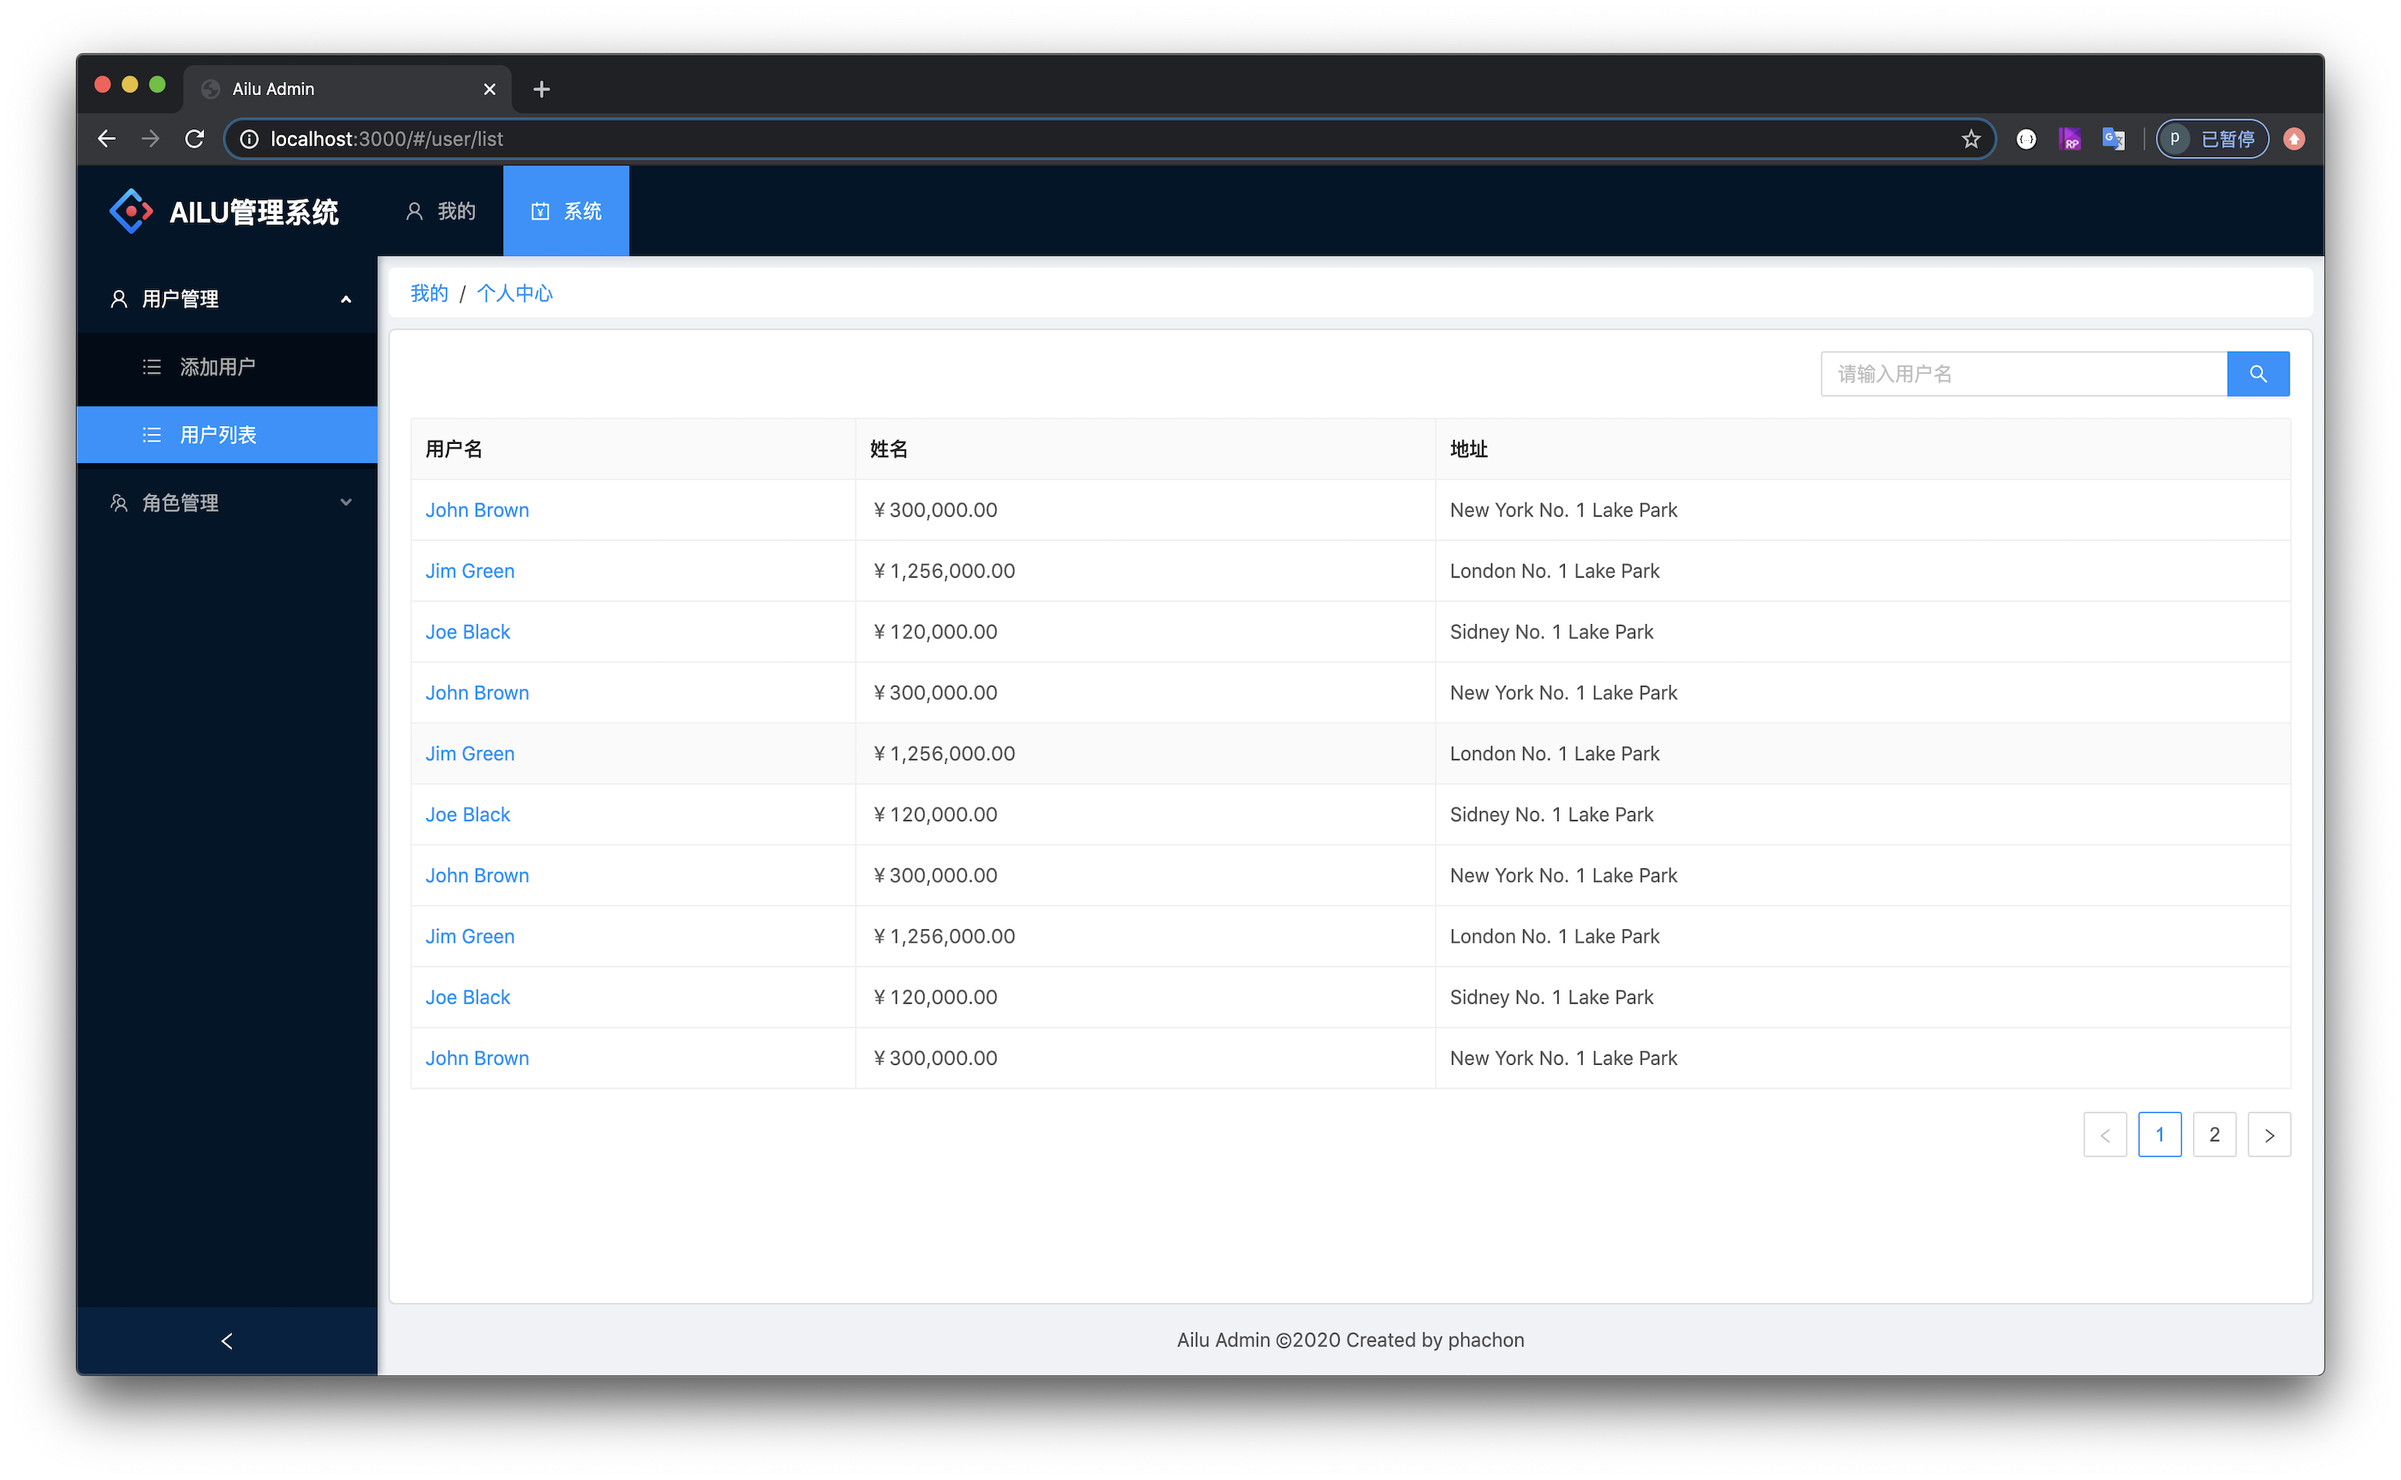
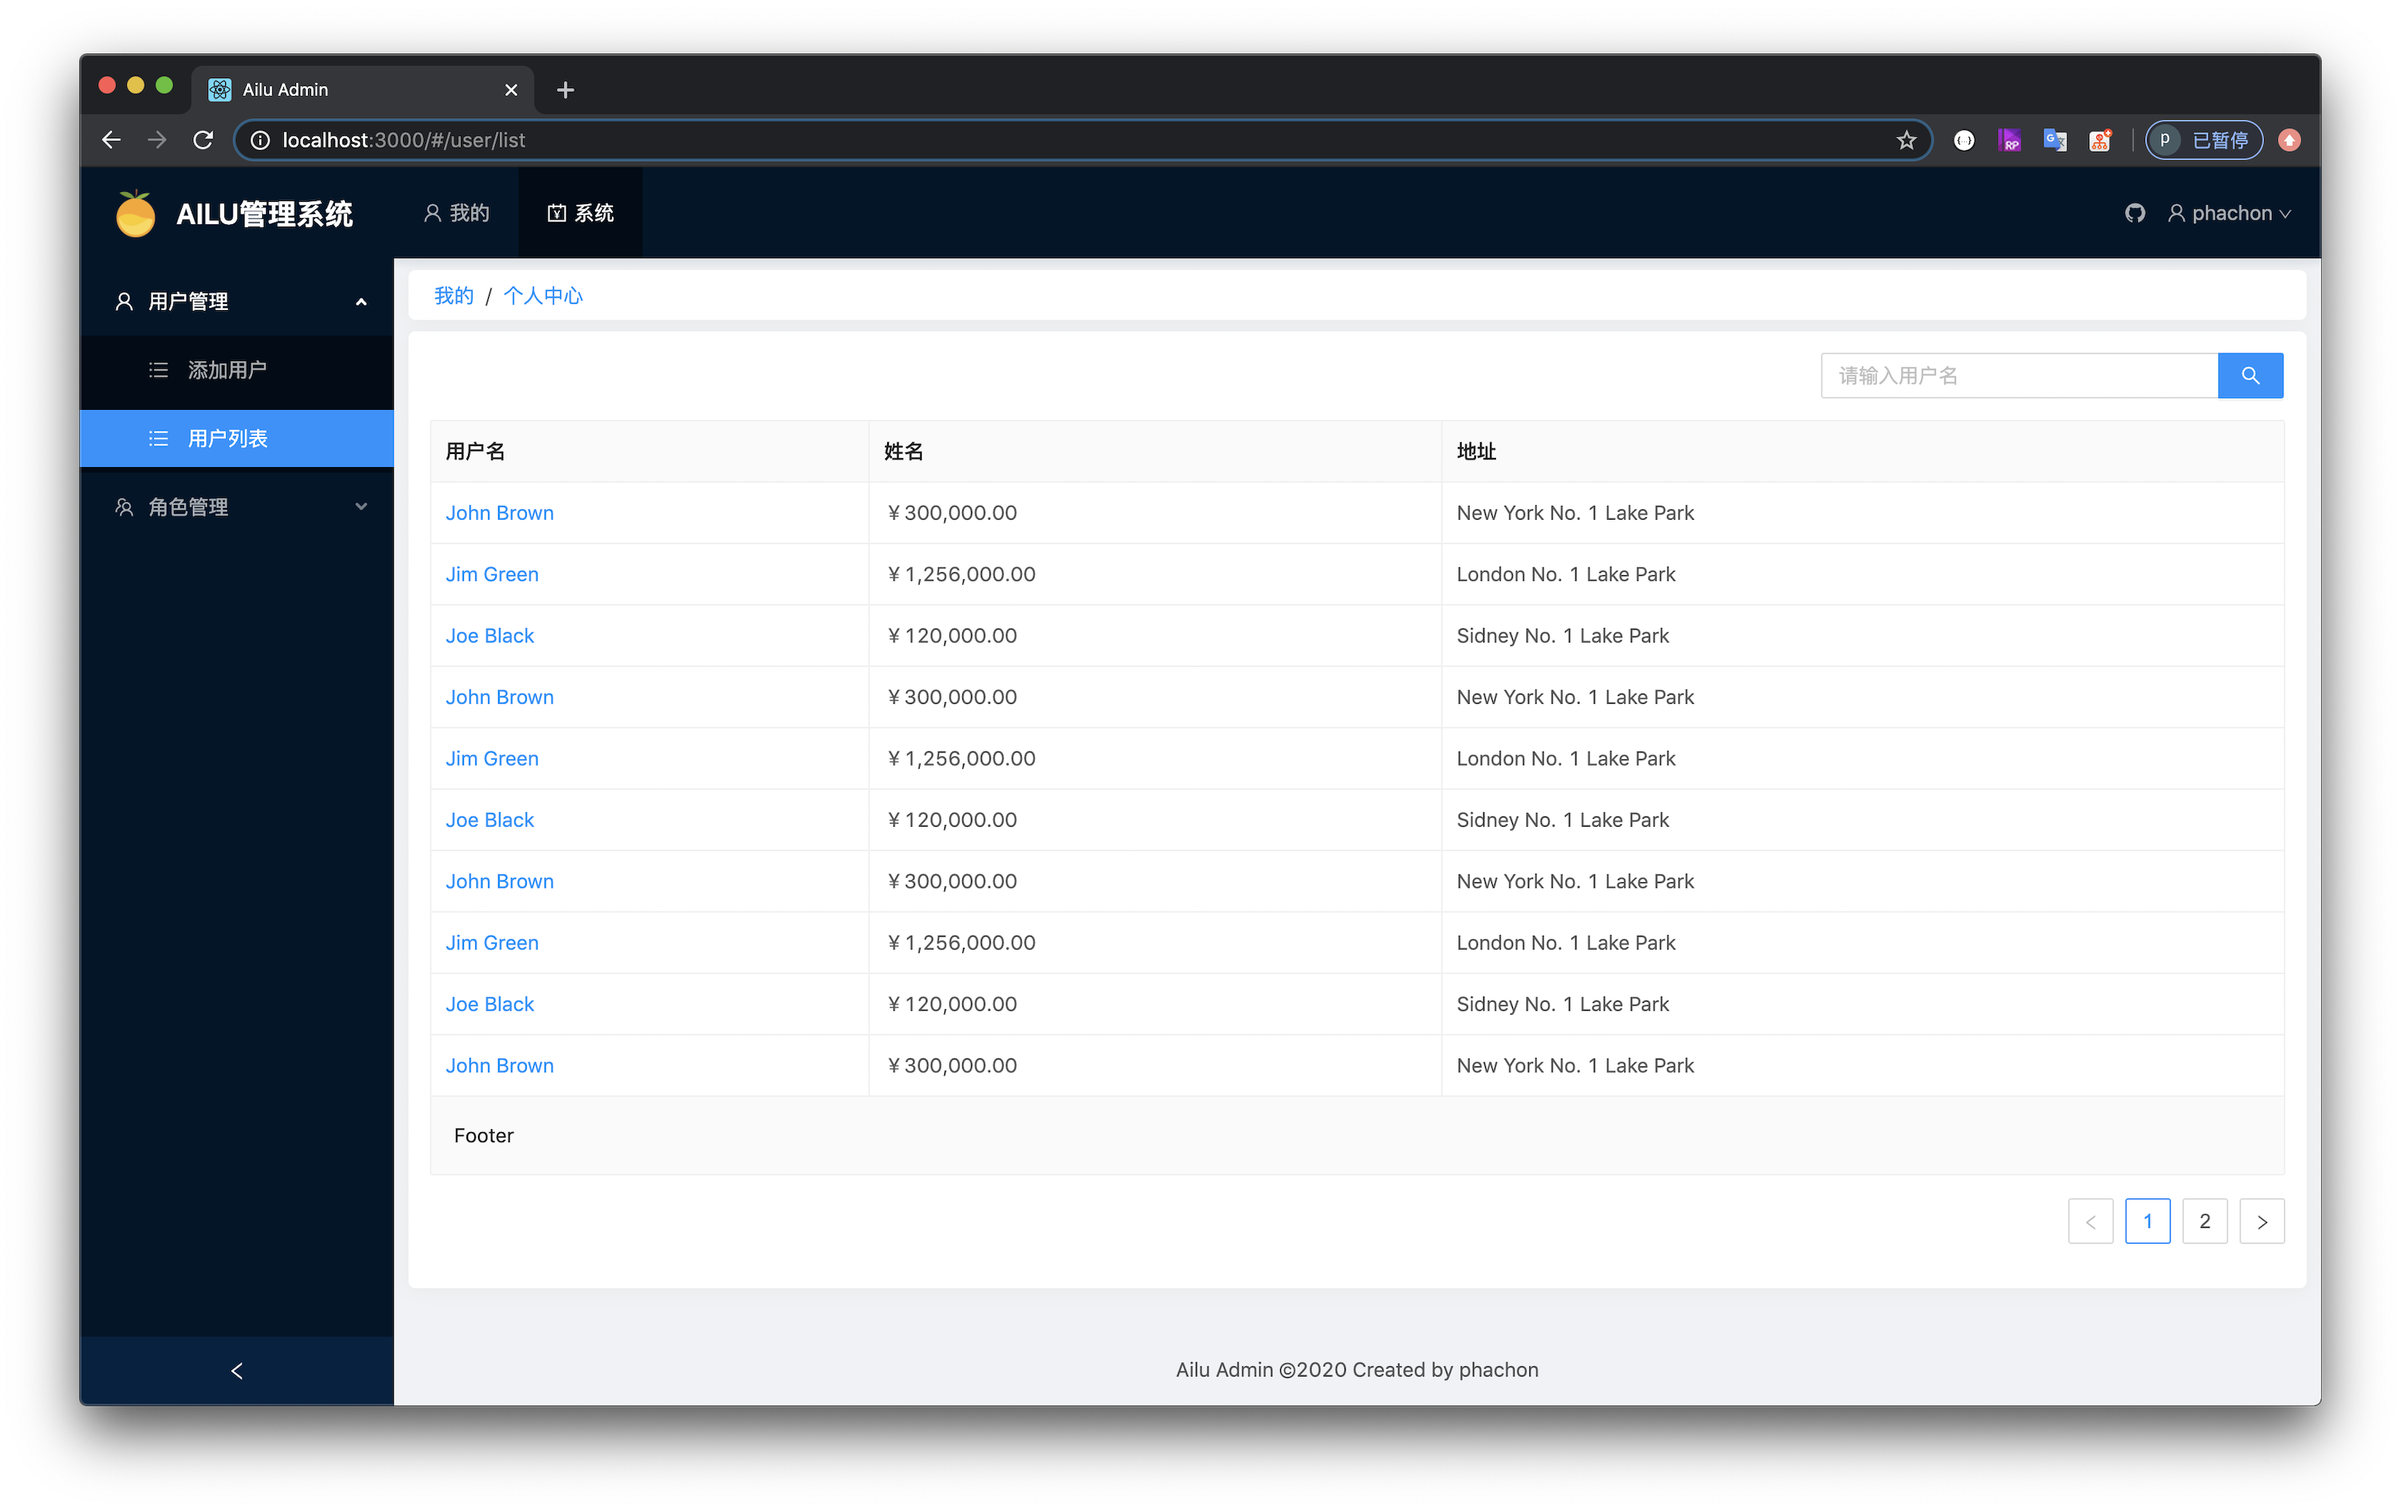
fix img

diff --git a/src/components/AdminSider/AdminSider.jsx b/src/components/AdminSider/AdminSider.jsx
@@ -31,7 +31,7 @@ class AdminSider extends React.Component {
       <Sider collapsible collapsed={this.state.collapsed} onCollapse={this.onCollapse} width="220px" className="admin-sider">
         <div className="admin-header-logo" >
           <a href="/">
-            <img src="https://preview.pro.ant.design/static/logo.f0355d39.svg" alt="logo"></img>
+            <img src="https://github.com/phachon/ailu-admin/blob/master/docs/imgs/logo_2.png?raw=true" alt="logo"></img>
             <h1 className={this.state.collapsed ? "hide" : ""}>
               AILU管理系统
             </h1>

diff --git a/src/assets/styles/login.css b/src/assets/styles/login.css
@@ -13,6 +13,13 @@
   text-align: center;
 }
 
+.login-header p {
+  font-size: 14px;
+  margin-top: 10px;
+  margin-bottom: 5px;
+  color: rgba(0,0,0,.45);
+}
+
 .login-title {
   text-align: center;
   position: relative;
@@ -22,18 +29,11 @@
   font-weight: 600;
   font-size: 26px;
   margin-left: 10px;
-}
-
-.login-header p {
-  font-size: 14px;
-  margin-top: 10px;
-  margin-bottom: 5px;
-  color: rgba(0,0,0,.45);
+  vertical-align: middle
 }
 
 .login-title img {
-  height: 32px;
-  margin-bottom: 8px;
+  height: 36px;
   vertical-align: middle;
 }
 

diff --git a/src/layouts/LoginLayout.jsx b/src/layouts/LoginLayout.jsx
@@ -14,7 +14,7 @@ class LoginLayout extends React.Component {
       <div className="login">
         <div className="login-header">
           <div className="login-title">
-            <img src="https://preview.pro.ant.design/static/logo.f0355d39.svg" alt="logo"></img>
+            <img src="https://github.com/phachon/ailu-admin/blob/master/docs/imgs/logo_2.png?raw=true" alt="logo"></img>
             <span>AiLu-Admin 系统登录</span>
           </div>
           <p>一个基于 React + Antd 开发的中后台管理系统</p>

diff --git a/src/assets/styles/layout.css b/src/assets/styles/layout.css
@@ -53,7 +53,7 @@
 
 .admin-header-logo img {
   display: inline-block;
-  height: 32px;
+  height: 38px;
   vertical-align: middle;
 }
 

diff --git a/README.md b/README.md
@@ -18,6 +18,8 @@ ailu-admin 是一个基于 React + React-Router + Antd  开发的中后台管理
 [![download_count](https://img.shields.io/github/downloads/phachon/ailu-admin/total.svg?style=plastic)](https://github.com/phachon/ailu-admin/releases) 
 [![release](https://img.shields.io/github/release/phachon/ailu-admin.svg?style=flat)](https://github.com/phachon/ailu-admin/releases) 
 
+![](./docs/imgs/login.png)
+
 ![](./docs/imgs/user-add.png)
 
 ![](./docs/imgs/user-list.png)
